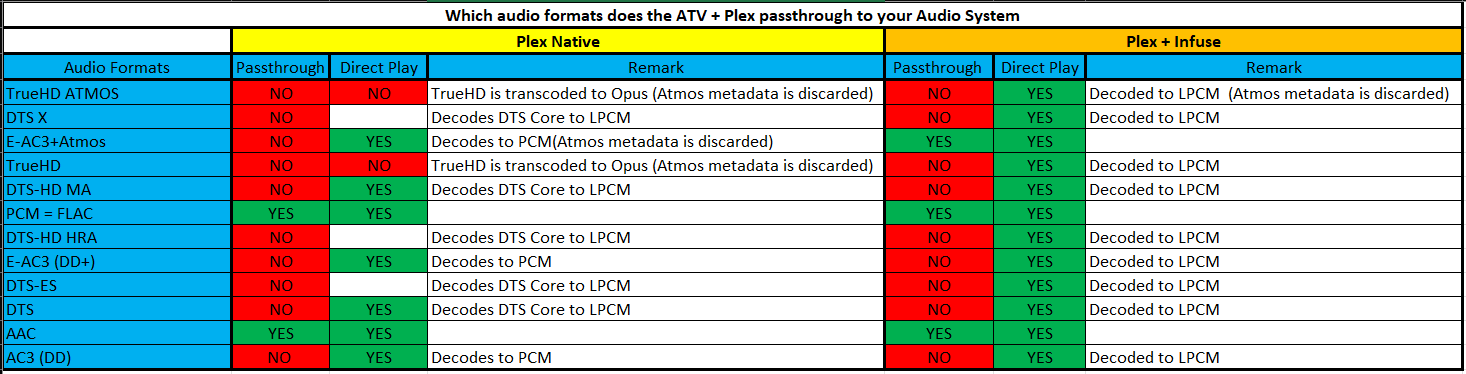
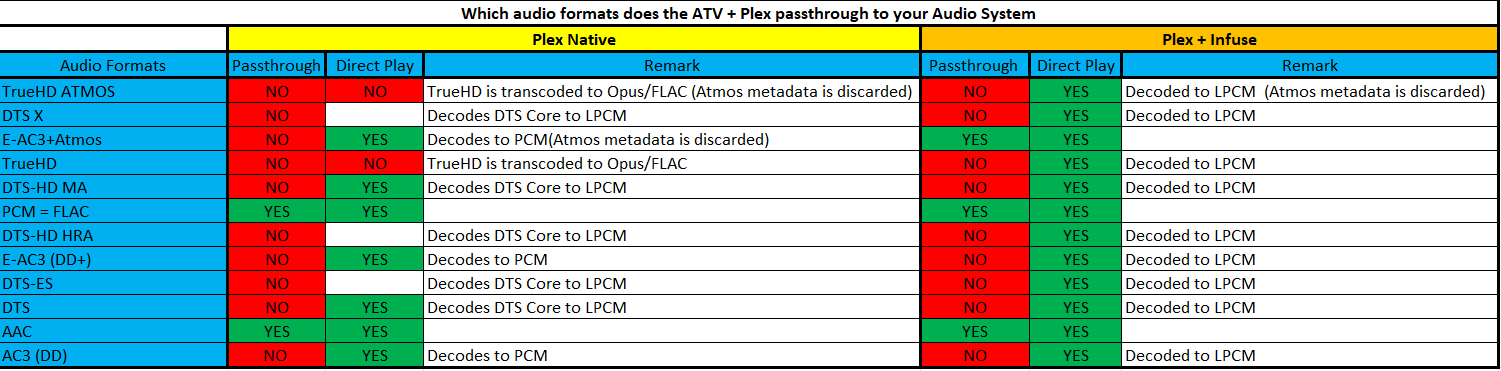
feat(guide): New Plex Guide what does my media player support (#1868)
* feat(guide): New Plex Guide what does my media player support

* changes to fix local build error

* Added link to the index

* added: hulu and support footer

* changed TOC order and added how to provide a missing player

* Update plex-audio-atv.png

* added: correct link to the sheet

* renamed media-players to what does my media player support

* Update .pages

* added: link to what does my media player support

* Changed JF to Jellyfin

* moved note info to the sheet link

* Apply suggestions from code review

* Improved: Audio description

* added: option so we can link to it

* Update what-does-my-media-player-support.md

- Added: JellyFin/Emby info
- Changed comments to notes, being the sheet uses notes to show the extra info
- Corrected formatting in text line

---------

Changed region(s): [[0.0, 0.0, 1.0, 1.0]]

diff --git a/docs/Plex/what-does-my-media-player-support.md b/docs/Plex/what-does-my-media-player-support.md
@@ -1,0 +1,109 @@
+# What does my Media Player Support
+
+We've created an Excel sheet with several tested Media Player devices with info that our community has provided.
+
+We hope this Excel sheet will be helpful for everyone looking for a reliable Media Player device.
+
+Do you see a missing Player/Product? Are you able to provide the needed info? Please join [TRaSH Guides Discord](https://trash-guides.info/discord){:target="_blank" rel="noopener noreferrer"}
+
+??? question "How can I provide info on a missing player? What do I need to provide? - [Click to show/hide]"
+
+    - Currently, it's only possible to provide info if the playback is seen in Tautulli.
+    - Player or Product that can run the Plex client directly or indirectly (Infuse, Plex Kodi Connect, Plex2Zidoo, etc)
+    - Preferably a TV that can do Dolby Vision, but we also need HDR10+ results.
+    - Player and Product info can be seen in Tautulli.
+    - When doing a playback test for HDR formats provide screenshots of what Tautulli and your TV show, along with whatever other devices you have that show what formats are being used.
+    - When doing an audio format test provide screenshots from Tautulli and your AVR.
+    - Provide this info in [TRaSH Guides Discord](https://trash-guides.info/discord){:target="_blank" rel="noopener noreferrer"} in #request-suggestions with a title starting with: `Test Media Player <your tested device>`
+
+## What does the spreadsheet cover
+
+This sheet will only cover Players/Products that can run the Plex client directly or indirectly (*Jellyfin/Emby isn't covered **yet** due to the lack of a proper Tautulli app and feedback/info from users*).
+
+!!! info "Jellyfin/Emby"
+
+    While these principles are based on Plex and the capabilities of certain devices, the capabilities of these devices also apply to JellyFin and Emby. Assuming that it's possible to do the equivalent streaming method (direct or indirect play) with your media server, the hardware should act the same as if Plex was used.
+
+The following aspects are covered
+
+### Does it support the most common HDR formats
+
+The sheet also has notes added for extra info
+
+- Dolby Vision Profile 5 (*does not have a HDR10 baselayer, so cannot fallback to HDR10*)
+- Dolby Vision Profile 7 (*DV + HDR10 baselayer, so it can fallback to HDR10*)
+- Dolby Vision Profile 8 (*DV + HDR10 baselayer, so it can fallback to HDR10*)
+- HDR10
+- HDR10+ (*HDR10+ has also a HDR10 baselayer, so it can fallback to HDR10*)
+
+#### Which Profile is used by what
+
+- Profile 5 => WEBDL (Streaming Services)
+- Profile 7 => Untouched Remuxes and BR-DISK
+- Profile 8 => Encodes, Hybrid Remuxes, Hybrid WEBDL, and in some cases standard WEBDL like from Hulu
+
+### Does it support audio passthrough in the most common formats
+
+This allows for the best audio quality as the audio signal is not altered or compressed in any way before reaching the AV receiver or soundbar. This is especially important for high-quality audio formats such as Dolby TrueHD or DTS-HD Master Audio.
+
+By using audio passthrough, you can ensure that you are getting the best audio experience possible when watching movies or listening to music through your home theater system. It allows you to take full advantage of the capabilities of your AVR/Soundbar and ensures that you are hearing the audio as it was intended to be heard by the content creators.
+
+Overall, audio passthrough is the ideal way to send audio from your media server to your AV receiver or soundbar for the highest quality audio experience.
+
+- TrueHD Atmos
+- DTS X
+- DD+ Atmos
+- TrueHD
+- DTS-HD MA
+- FLAC/PCM
+- DD+ (E-AC3)
+- DTS
+- AAC
+- DD (AC3)
+
+## Link to tested Media Player Devices
+
+[Tested Media Players](https://docs.google.com/spreadsheets/d/15Wf_jy5WqOPShczFKQB28cCetBgAGcnA0mNOG-ePwDc/edit?usp=sharing){:target="_blank" rel="noopener noreferrer"}
+
+!!! info "A lot of results have a note added that provides extra information, such as fallback HDR or audio formats, as well as other information that we've gathered from several sources."
+
+---
+
+## What should I do next with this info
+
+The next thing to do is to setup a proper quality profile with the info you gathered from this sheet.
+To make this easier we made a How to setup a quality profile for Radarr/Sonarr that has a flowchart to help you even more to decide what to choose.
+
+### Radarr
+
+[How to set up Quality Profiles](/Radarr/radarr-setup-quality-profiles){:target="_blank" rel="noopener noreferrer"} - Explains how to make the most of Custom Formats and shows some specifics of my configuration. You can use these examples to get an idea of how to set up your preferences.
+
+#### How to make use of HDR Formats for Radarr
+
+- [How to set up Quality Profiles](/Radarr/radarr-setup-quality-profiles){:target="_blank" rel="noopener noreferrer"} - Explains how to make the most of Custom Formats and shows some specifics of my configuration. You can use
+
+{! include-markdown "../../includes/cf/radarr-all-hdr-formats.md" !}
+
+#### How to make use of Audio Formats for Radarr
+
+- [How to set up Quality Profiles](/Radarr/radarr-setup-quality-profiles){:target="_blank" rel="noopener noreferrer"} - Explains how to make the most use of Custom Formats and shows some specifics of my configuration. You can use
+
+{! include-markdown "../../includes/cf/radarr-audio.md" !}
+
+---
+
+### Sonarr
+
+[How to setup Quality Profiles](/Sonarr/sonarr-setup-quality-profiles){:target="_blank" rel="noopener noreferrer"} - Explains how to make the most of Custom Formats and shows some specifics of my configuration. You can use these examples to get an idea of how to set up your preferences.
+
+#### How to make use of HDR Formats for Sonarr
+
+- [How to setup Quality Profiles](/Sonarr/sonarr-setup-quality-profiles){:target="_blank" rel="noopener noreferrer"} - Explains how to make the most of Custom Formats and shows some specifics of my configuration. You can use these examples to get an idea of how to set up your preferences.
+
+{! include-markdown "../../includes/cf/sonarr-all-hdr-formats.md" !}
+
+#### How to make use of Audio Formats for Sonarr
+
+At the moment I decided not to add `Audio Advanced` Custom Formats to the WEB profile. You will hardly find HD audio with WEB-DL (Most newer WEBDL will have Atmos). If you also want HD audio formats, I would suggest going for Remuxes.
+
+--8<-- "includes/support.md"

diff --git a/docs/Radarr/radarr-setup-quality-profiles.md b/docs/Radarr/radarr-setup-quality-profiles.md
@@ -7,9 +7,10 @@ There isn't a "best" setup, it depends on your media setup (hardware devices) an
 
 Some prefer high-quality audio (HD Audio), others high-quality video. Many prefer both.
 
-Here I will try to explain how to make the most use of Custom Formats to help you to set up your quality profiles for your personal needs.
+Here we will try to explain how to make the most of Custom Formats to help you set up your quality profiles for your personal preferences.
 
-I created a [flowchart](#which-quality-profile-should-you-choose) to make your decision/choices easier.
+- We've created a [flowchart](#which-quality-profile-should-you-choose) to make your decisions/choices easier.
+- We've also created an Excel sheet with several tested [media player devices](/Plex/what-does-my-media-player-support){:target="_blank" rel="noopener noreferrer"} to display what formats and capabilities they support, sourced from information provided by our community. We hope this Excel sheet will be a helpful resource for those looking for a reliable media player device and will help you choose the appropriate quality profile.
 
 ------
 
@@ -271,9 +272,13 @@ The following custom format groups should be combined with the Quality Profiles 
 
 ### Advanced Audio
 
-- You have an audio setup that supports all HD Audio (TrueHD, DTS-X, DTS-HD, etc).
-- You have a media player (hardware devices) that can passthrough HD audio.
-- You don't have an AppleTV (Being it can't passthrough untouched HD audio).
+- You have a hardware media player device and an audio setup that supports **ALL** HD Audio (TrueHD, DTS-X, DTS-HD, etc).
+
+    {! include-markdown "../../includes/cf/audio-limitations-atv.md" !}
+
+- You've chosen a profile that includes Audio Formats. You should use all the Audio formats with Remuxes/UHD Encodes.
+- You should add **ALL** the Audio formats - don't leave any of them out!
+- Audio transcoding has a low impact on your server. If your server can't handle audio transcoding, consider choosing another quality profile.
 
 *The reason that I score lossy Atmos higher than lossless DTS-HD MA is that I prefer having the object metadata (Atmos) over lossless audio.*
 

diff --git a/docs/Sonarr/sonarr-setup-quality-profiles.md b/docs/Sonarr/sonarr-setup-quality-profiles.md
@@ -7,9 +7,10 @@ There isn't a "best" setup, it depends on your media setup (hardware devices) an
 
 Some prefer high-quality audio (HD Audio), others high-quality video. Many prefer both.
 
-Here I will try to explain how to make the most use of Custom Formats to help you to set up your quality profiles for your personal needs.
+Here we will try to explain how to make the most of Custom Formats to help you set up your quality profiles for your personal preferences.
 
-I created a [flowchart](#which-quality-profile-should-you-choose) to make your decision/choices easier.
+- We've created a [flowchart](#which-quality-profile-should-you-choose) to make your decisions/choices easier.
+- We've also created an Excel sheet with several tested [media player devices](/Plex/what-does-my-media-player-support){:target="_blank" rel="noopener noreferrer"} to display what formats and capabilities they support, sourced from information provided by our community. We hope this Excel sheet will be a helpful resource for those looking for a reliable media player device and will help you choose the appropriate quality profile.
 
 ------
 
